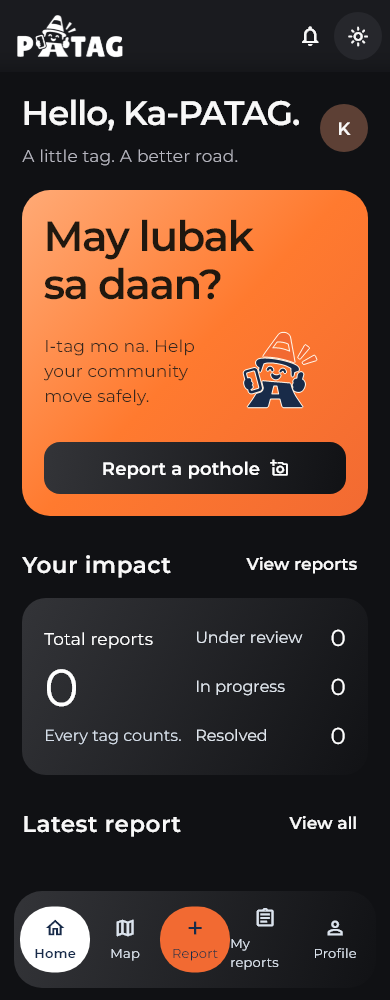
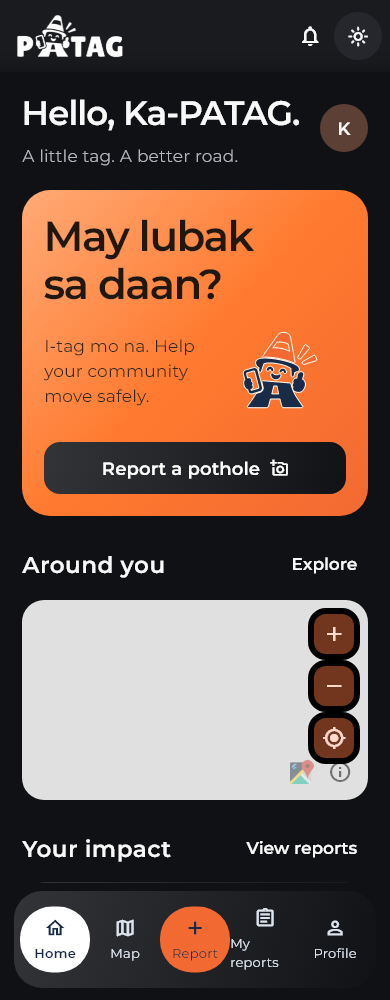
style(citizen-mobile): improve home section layout and update visual documentation

Changed region(s): [[0.0308, 0.558, 0.9538, 0.868]]

diff --git a/citizen-mobile/lib/features/screens.dart b/citizen-mobile/lib/features/screens.dart
@@ -565,9 +565,11 @@ class CitizenHome extends StatelessWidget {
             Row(
               mainAxisAlignment: MainAxisAlignment.spaceBetween,
               children: [
-                const Text(
-                  'Around you',
-                  style: TextStyle(fontSize: 18, fontWeight: FontWeight.w600),
+                const Expanded(
+                  child: Text(
+                    'Around you',
+                    style: TextStyle(fontSize: 18, fontWeight: FontWeight.w600),
+                  ),
                 ),
                 TextButton(
                   onPressed: () => go(context, '/map'),
